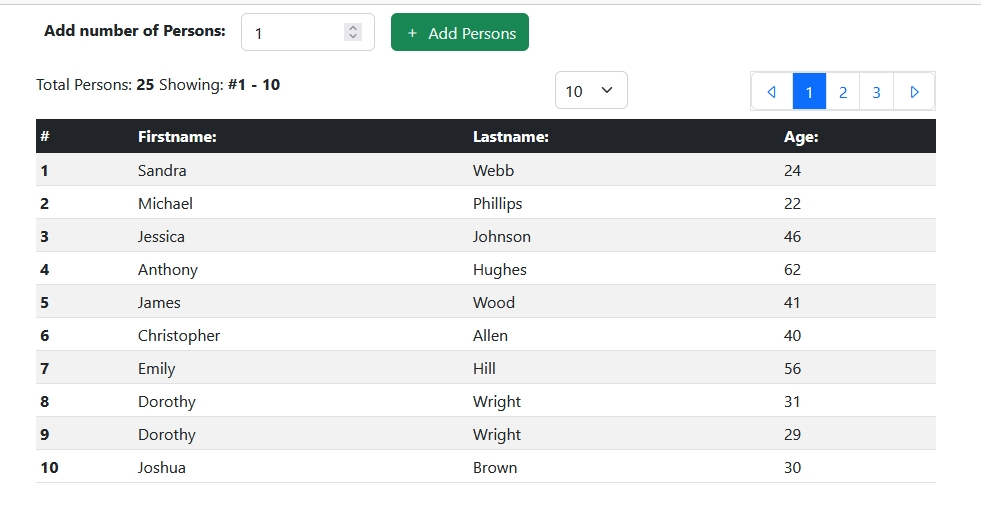
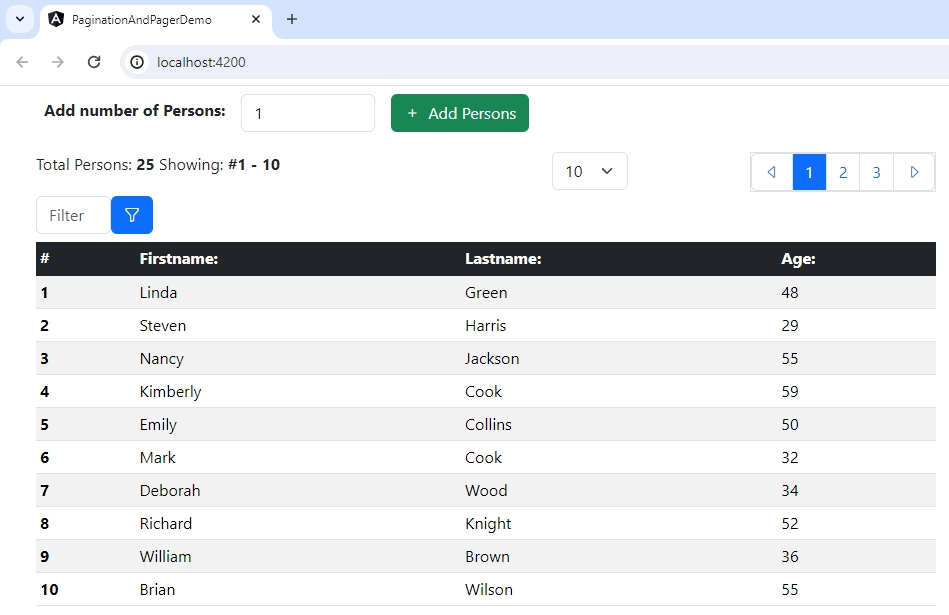
Added filter functions + new images.

diff --git a/src/app/shared_functions/FilterFunctions.ts b/src/app/shared_functions/FilterFunctions.ts
@@ -1,0 +1,77 @@
+export class FilterFunctions {
+
+    filterObject(object: any, filterAt: string) : any | undefined {        
+        if(object != undefined) {   
+            let filtered: any[] = [];
+            
+            for(let i = 0; i < object.length; i++) {                
+                let values: string[] | null = this.getValues(object[i]); 
+
+                let found: number = this.searchInArray(filterAt.toLowerCase(), values); 
+
+                if(found > -1) {                    
+                    filtered.push(object[i]);
+                }
+            }
+
+            return filtered;
+        }
+
+        return undefined;
+    }
+
+    private getValues(object: any) : string[] | null {
+        if(object != undefined) {
+            let values: string[] = [];
+
+            let data: any[] = Object.values(object);
+            data.forEach(item => {
+                let type: string = Object.prototype.toString.call(item);
+
+                if(item != null) {
+                    if(type !== '[object Object]' && type !== '[object Array]') {
+                        values.push(item.toString().toLowerCase()) 
+                    } else if(type === '[object Object]') {
+                        let innerObj: any = item;
+                        let innerData: string[] = Object.values(innerObj);
+
+                        innerData.forEach(el => {
+                            if(el != null) {
+                                values.push(el.toString().toLowerCase()) 
+                            }
+                        });
+                    } else if(type === '[object Array]') {
+                        let innerObj: any[] = item;
+
+                        for(let i = 0; i < innerObj.length; i++) {
+                            let innerData: string[] = Object.values(innerObj[i]);
+
+                            innerData.forEach(el => {
+                                if(el != null) {
+                                    values.push(el.toString().toLowerCase()) 
+                                }
+                            });
+                        }
+                    }
+                }
+            }); 
+            
+            return values;
+        }
+  
+        return null;
+    }
+
+    private searchInArray(searchFor: string, arr: string[] | null) : number {
+        if(arr != null) {
+            for(let i = 0; i < arr.length; i++) {
+                if(arr[i].indexOf(searchFor) > -1) {
+                    return i;
+                }
+            }
+        }
+
+        return -1;
+    }
+
+}

diff --git a/src/app/components/show-table/show-table.component.ts b/src/app/components/show-table/show-table.component.ts
@@ -9,6 +9,7 @@ import { Person } from 'src/app/models/Person';
 
 //Shared functions.
 import { Pagination } from 'src/app/shared_functions/Pagination';
+import { FilterFunctions } from 'src/app/shared_functions/FilterFunctions';
 
 @Component({
   selector: 'app-show-table',
@@ -17,19 +18,29 @@ import { Pagination } from 'src/app/shared_functions/Pagination';
 })
 export class ShowTableComponent extends Pagination {
 
+  private _originalPersons?: Person[];
   public allPersons?: Person[];
 
   public generatePersons: number = 25;
+
+  private _filter: FilterFunctions = new FilterFunctions();
 
   constructor(
     private personsService: PersonsService, 
     pageService: PageService
   ) {
     super(pageService);
-    
-    //Listen for changes.
-    this.getCurrentData().subscribe({
+  }
+
+  ngOnInit() {
+    if(this.generatePersons < 0) {
+      this.generatePersons = 0;
+    }
+
+     //Listen for changes.
+     this.getCurrentData().subscribe({
       next: (result) => {
+        this._originalPersons = result;
         this.allPersons = result;
       }
     });
@@ -44,12 +55,6 @@ export class ShowTableComponent extends Pagination {
         }
       }
     });
-  }
-
-  ngOnInit() {
-    if(this.generatePersons < 0) {
-      this.generatePersons = 0;
-    }
 
     this.personsService.generateRandomPersons(this.generatePersons);    
     this.allPersons = this.personsService.getAllPersons();
@@ -57,6 +62,14 @@ export class ShowTableComponent extends Pagination {
     //Set data for pagination.
     this.setData(this.allPersons);    
     this.updatePagination();     
+  }
+
+  filterPersons(value: string) : void {
+    if(value !== '') {
+      this.allPersons = this._filter.filterObject(this.allPersons, value);
+    } else {
+      this.allPersons = this._originalPersons;
+    }
   }
 
 }

diff --git a/src/app/components/filter/filter.component.html b/src/app/components/filter/filter.component.html
@@ -1,0 +1,18 @@
+<div class="col-xl-3 col-lg-3 col-md-3 col-sm-6 xs-width-div">
+    <div class="col-xl-4 col-lg-4 col-md-4 col-sm-4 float-start xs-width-input">
+        <input class="form-control rounded d-sm-none d-md-none d-lg-block xs-hide" type="text" name="filter" required
+            placeholder="Filter" autocomplete="off" #filterValue />
+        <input class="form-control rounded d-sm-block d-md-block d-lg-none" type="text" name="filter" required
+            autocomplete="off" #filterValue />
+    </div>
+    <div class="col-xl-auto col-lg-auto col-md-auto col-sm-auto float-start">
+        <button class="btn text-light btn-primary" type="submit" (click)="this.filter(filterValue.value)" title="Filter">
+            <i class="bi bi-funnel"></i>
+        </button>
+    </div>
+    <div class="col-xl-auto col-lg-auto col-md-auto col-sm-auto float-start" *ngIf="this.isFiltered">
+        <button class="btn btn-danger text-light" type="button" (click)="this.reset(); filterValue.value = ''" title="Reset filter">
+            <i class="bi bi-x-circle"></i>
+        </button>
+    </div>
+</div>

diff --git a/src/app/components/pagination-and-pager-demo.module.ts b/src/app/components/pagination-and-pager-demo.module.ts
@@ -12,6 +12,7 @@ import { PaginationComponent } from './pagination/pagination.component';
 import { PagerComponent } from './pager/pager.component';
 import { AddPersonsFormComponent } from './add-persons-form/add-persons-form.component';
 import { ScrollToTopAdminComponent } from './scroll-to-top/scroll-to-top.component';
+import { FilterComponent } from './filter/filter.component';
 
 @NgModule({
   declarations: [
@@ -19,7 +20,8 @@ import { ScrollToTopAdminComponent } from './scroll-to-top/scroll-to-top.compone
     PaginationComponent,
     PagerComponent,
     AddPersonsFormComponent,
-    ScrollToTopAdminComponent
+    ScrollToTopAdminComponent,
+    FilterComponent
   ],
   imports: [
     CommonModule,
@@ -32,7 +34,8 @@ import { ScrollToTopAdminComponent } from './scroll-to-top/scroll-to-top.compone
   exports: [
     ShowTableComponent,
     AddPersonsFormComponent,
-    ScrollToTopAdminComponent
+    ScrollToTopAdminComponent,
+    FilterComponent
   ]
 })
 export class PaginationAndPagerDemoModule { }

diff --git a/src/app/components/show-table/show-table.component.html b/src/app/components/show-table/show-table.component.html
@@ -1,17 +1,20 @@
 <div class="container-fluid">
   @if (this.allPersons?.length ?? 0 > 0) {
-    <div class="row mt-2 mb-2">
+    <div class="row mt-2 mb-1">
       <div class="col-5">
         <div class="col-auto mt-1">
           Total Persons: <span class="fw-bold">{{ this.getTotalRecords() }}</span> Showing: <span class="fw-bold">#{{ this.getCurrentShowing() }}</span>
         </div>
-      </div>
+      </div>     
       <div class="col-3">
         <app-pager></app-pager>
       </div>
       <div class="col-4">
         <app-pagination></app-pagination>
-      </div>
+      </div>      
+    </div>
+    <div class="row mt-1 mb-2">
+      <app-filter (filterValue)="this.filterPersons($event)"></app-filter>
     </div>
   }
   @if (this.allPersons?.length ?? 0 > 0) {

diff --git a/src/app/components/filter/filter.component.spec.ts b/src/app/components/filter/filter.component.spec.ts
@@ -1,0 +1,23 @@
+import { ComponentFixture, TestBed } from '@angular/core/testing';
+
+import { FilterComponent } from './filter.component';
+
+describe('FilterComponent', () => {
+  let component: FilterComponent;
+  let fixture: ComponentFixture<FilterComponent>;
+
+  beforeEach(async () => {
+    await TestBed.configureTestingModule({
+      imports: [FilterComponent]
+    })
+    .compileComponents();
+    
+    fixture = TestBed.createComponent(FilterComponent);
+    component = fixture.componentInstance;
+    fixture.detectChanges();
+  });
+
+  it('should create', () => {
+    expect(component).toBeTruthy();
+  });
+});

diff --git a/src/app/components/filter/filter.component.ts b/src/app/components/filter/filter.component.ts
@@ -1,0 +1,23 @@
+import { Component, EventEmitter, Output } from '@angular/core';
+
+@Component({
+  selector: 'app-filter',
+  templateUrl: './filter.component.html',
+  styleUrl: './filter.component.css'
+})
+export class FilterComponent {
+  @Output() filterValue: EventEmitter<string> = new EventEmitter<string>();
+
+  public isFiltered: boolean = false;
+
+  filter(value: string): void {
+    this.isFiltered = true;
+    this.filterValue.emit(value);
+  }
+
+  reset() : void {
+    this.isFiltered = false;
+    this.filterValue.emit('');
+  }
+
+}

diff --git a/src/app/components/filter/filter.component.css b/src/app/components/filter/filter.component.css
@@ -1,0 +1,15 @@
+@media (max-width: 576px) {      
+    .xs-hide {
+        display: none;
+    }
+
+    .xs-width-input {
+        width: 50%;
+    }
+
+    .xs-width-div {
+        width: 45%;
+        position: relative;
+        float: right;
+    }
+}
